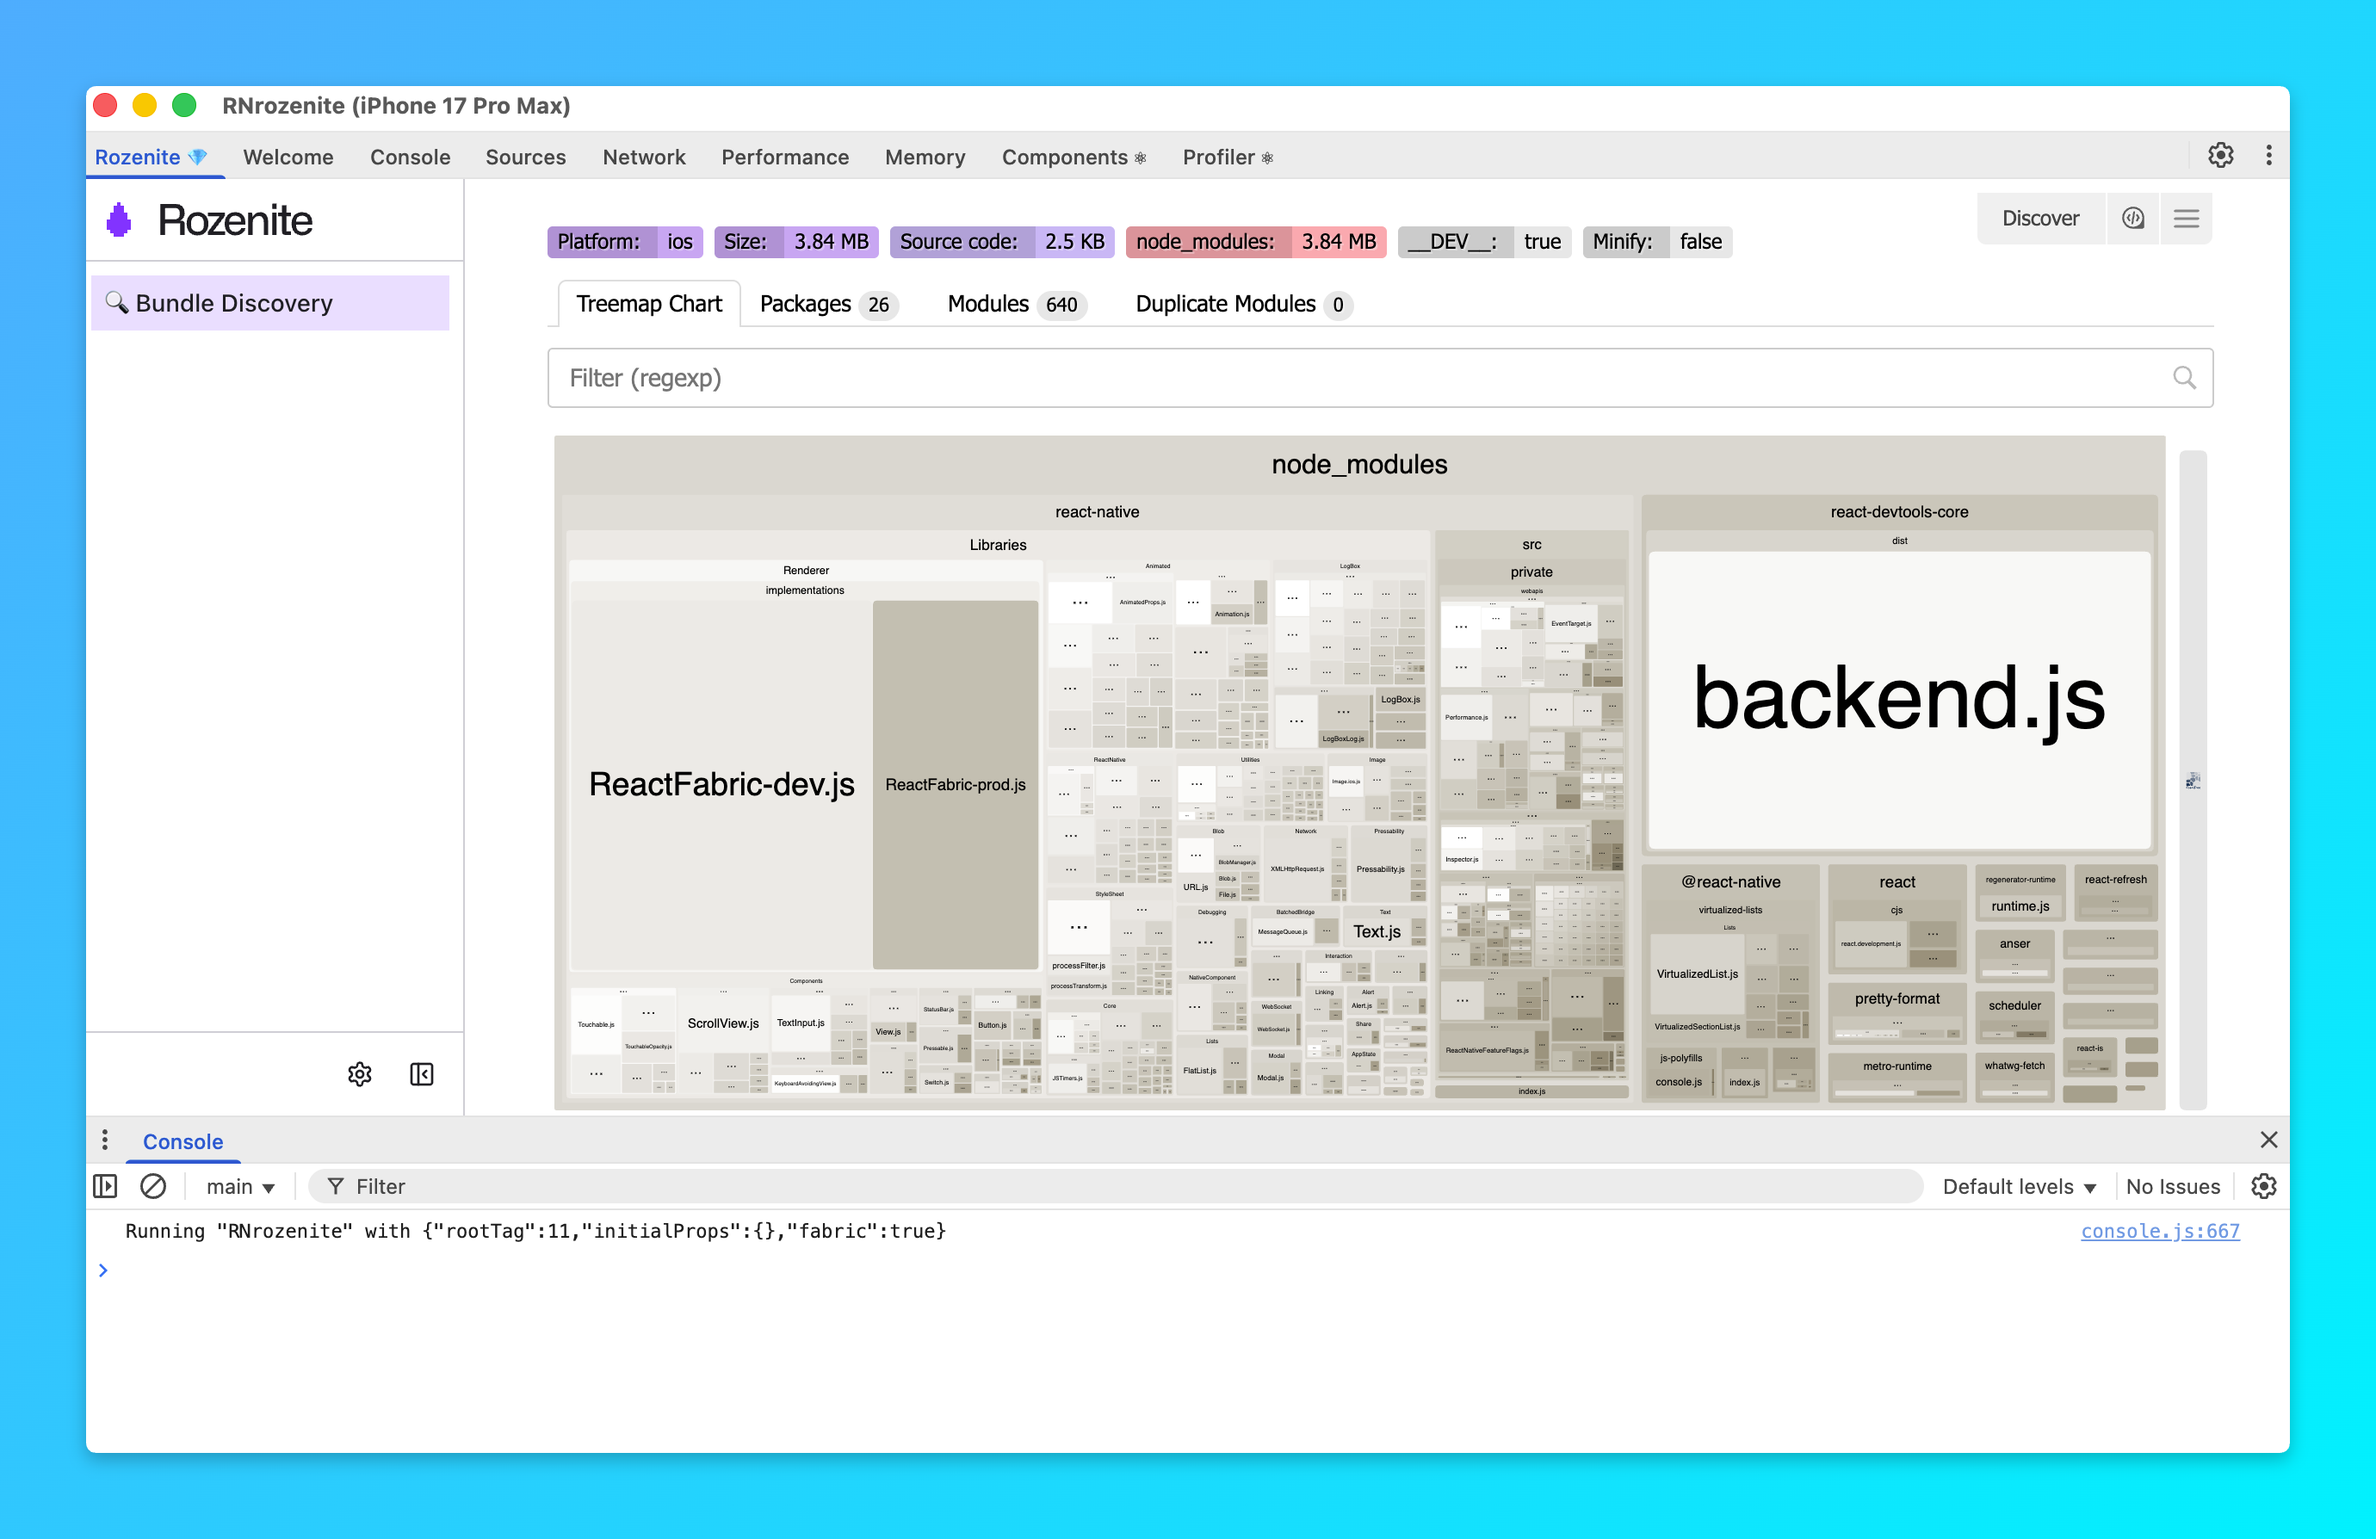
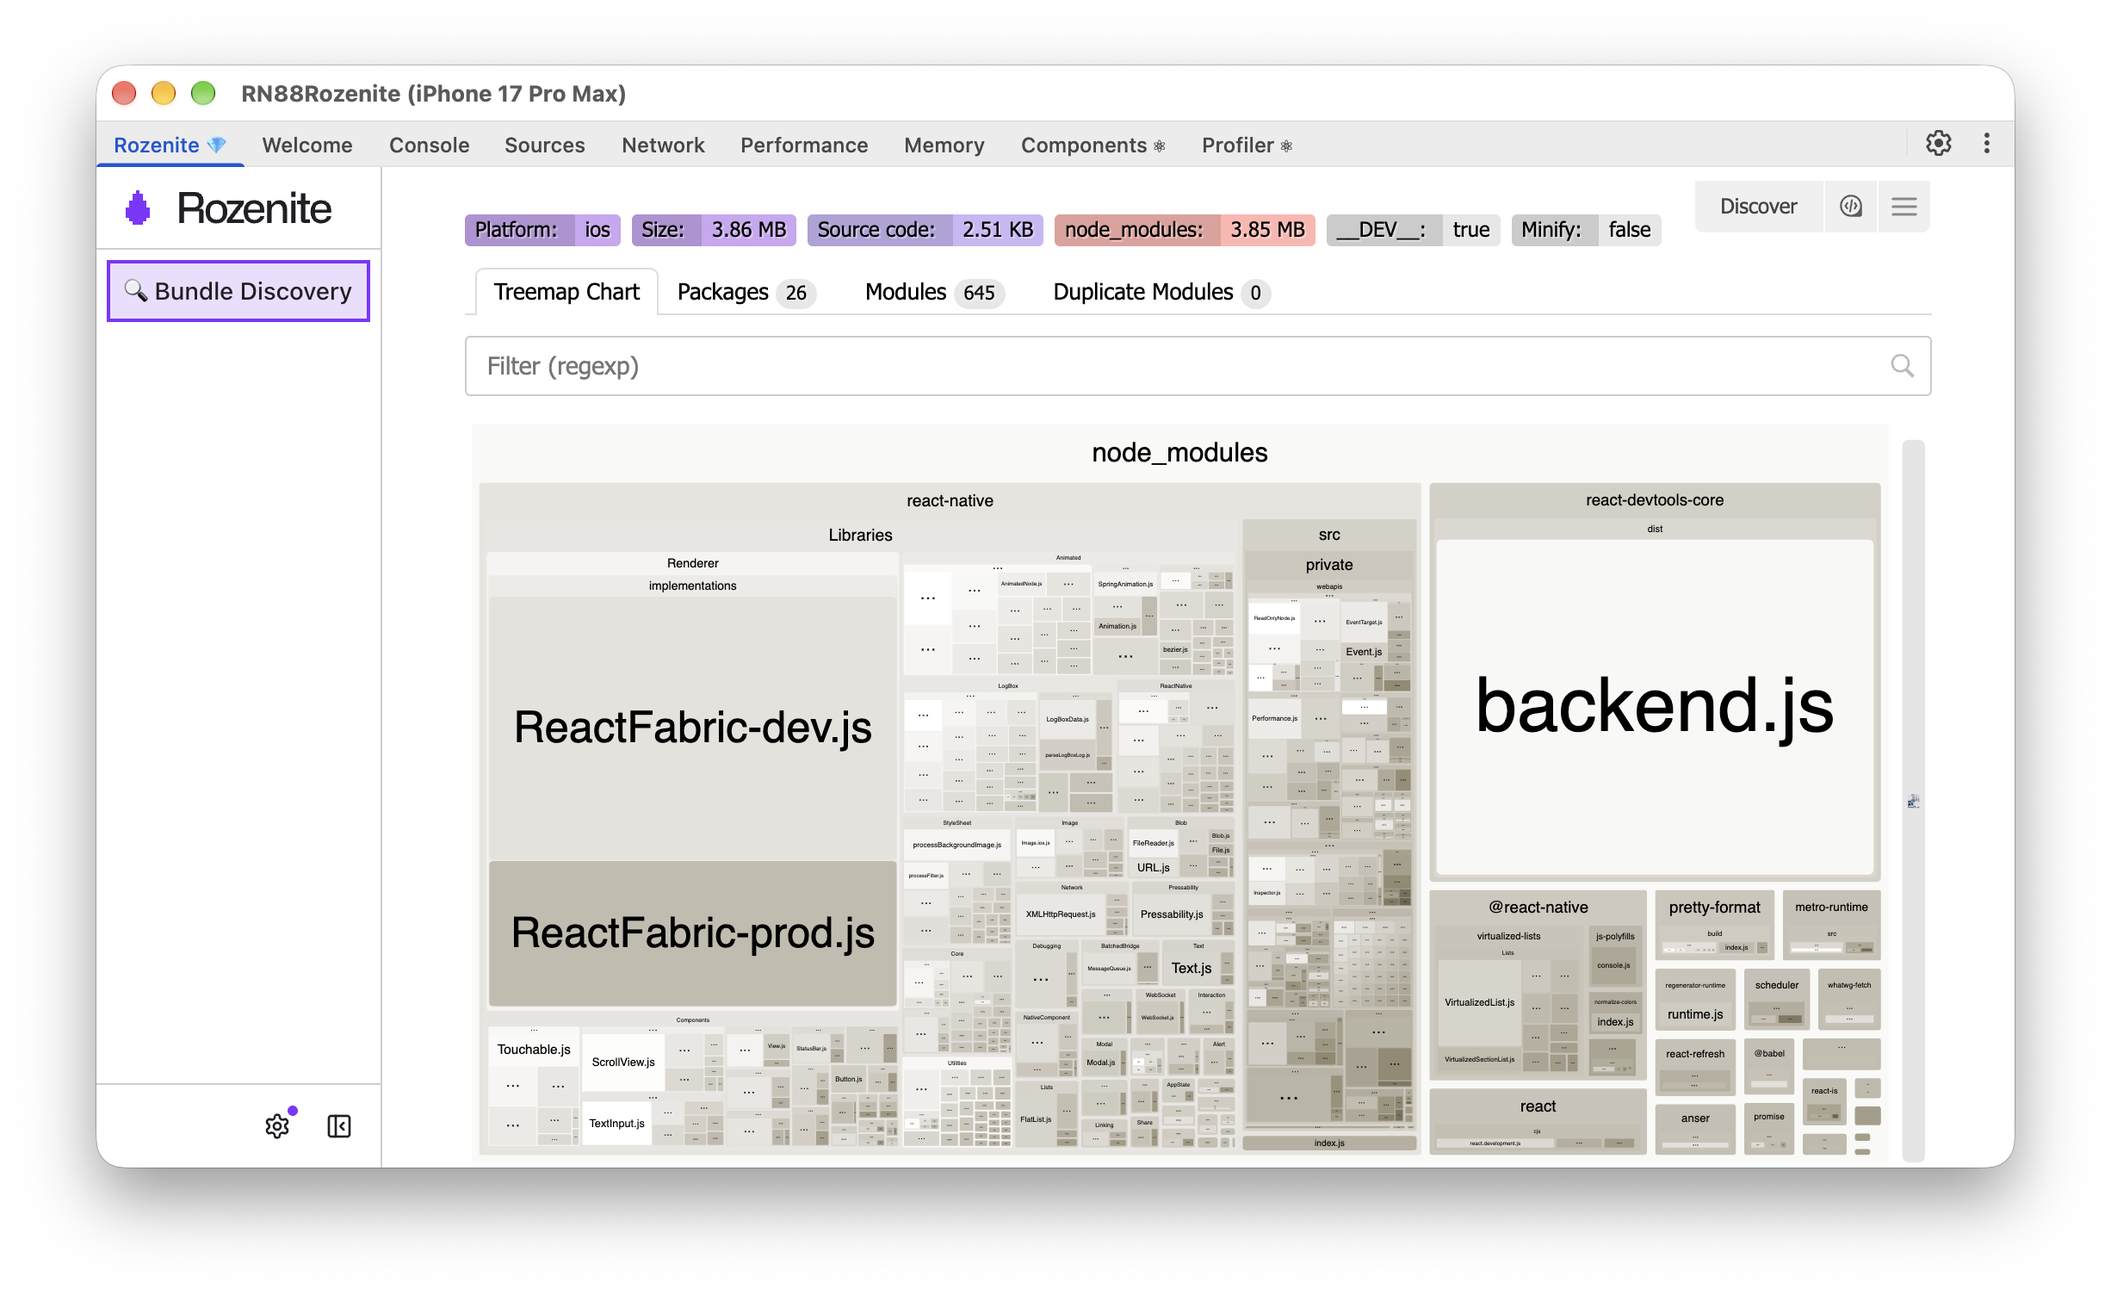
Update rozenite-plugin

diff --git a/packages/rozenite-plugin/src/react-native.ts b/packages/rozenite-plugin/src/react-native.ts
@@ -42,6 +42,7 @@ function injectBundleDiscovery<T extends MetroConfigLike>(
   const newSerializer = createSerializer({
     projectRoot: process.cwd(),
     silent: true,
+    fetchPackagesMetadata: false,
     ...options,
     outputJsonPath,
     serializer: hasSerializer ? config.serializer?.customSerializer : undefined,
